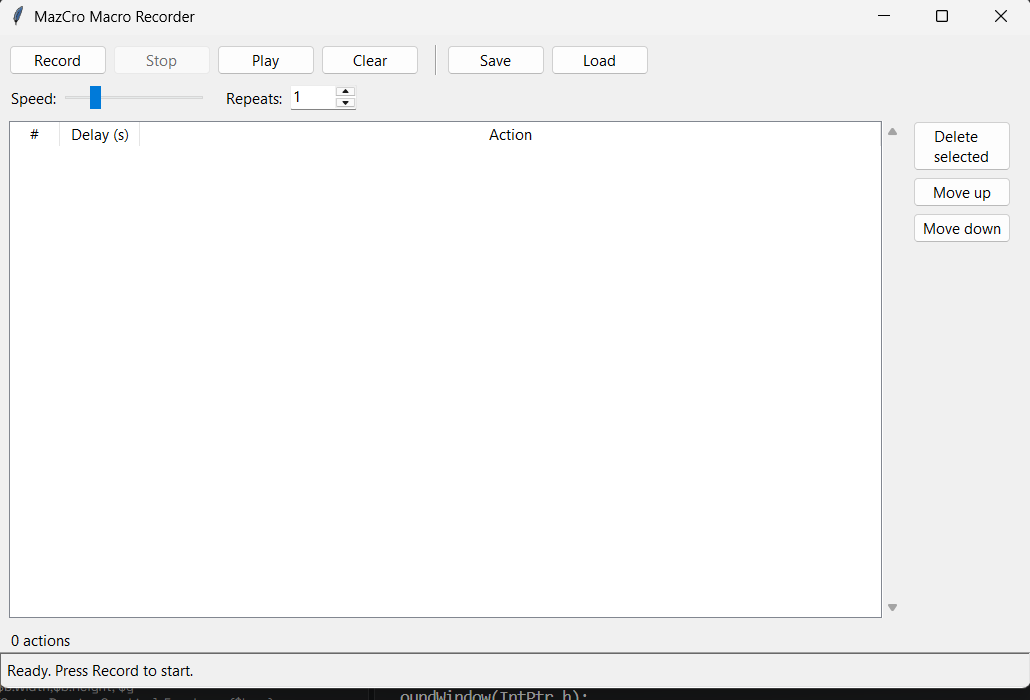
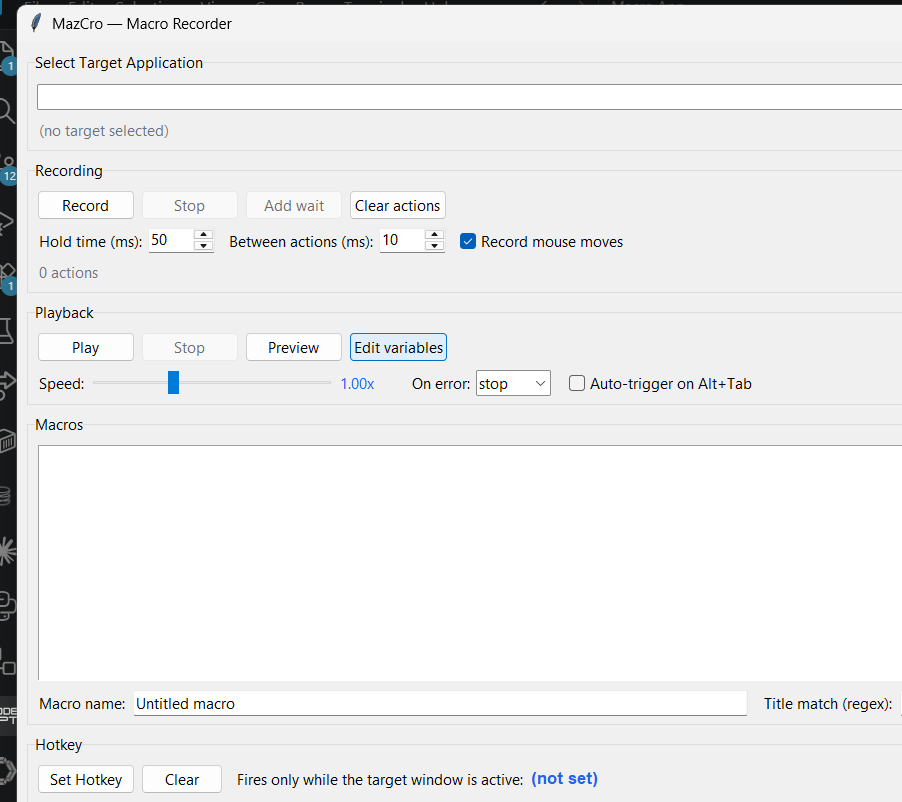
docs(readme): document target binding, variables, auto-trigger and troubleshooting
Rewrite the README for the new application.

- action reference table with the fields each action stores
- walkthroughs for recording, playback, Alt+Tab auto-trigger, hotkeys and
  variables
- annotated JSON macro example matching the documented schema
- architecture table and a troubleshooting matrix covering the failures
  users actually hit: capture permissions, closed targets, silent hotkeys
  and resolution changes

Add a screenshot of the running interface.

diff --git a/README.md b/README.md
@@ -2,72 +2,67 @@
 
 A Windows macro recorder and player with a graphical UI, written in Python.
 
-MazCro records your mouse and keyboard activity and replays it on demand —
-useful for repetitive form filling, game sequences, testing, or any task you
-would otherwise click through dozens of times.
+MazCro records your mouse and keyboard activity against a **specific target
+application**, then replays it — either on demand, via a hotkey, or automatically
+the moment you Alt+Tab back to that app.
 
-![screenshot](screenshot.png)
+![MazCro](screenshot.png)
 
 ## Features
 
-- **Record** mouse movement, clicks (left/right/middle), scrolling and keystrokes
-- **Playback** with an adjustable **speed multiplier** (0.25x – 4x) and **repeat count**
-- **Action list** with per-row delete, move up and move down reordering
-- **Save / Load** macros as portable JSON files
-- **Auto-filtering** — events happening over MazCro's own window are ignored, so the UI doesn't record itself
-- **Failsafe** — slam the mouse into any screen corner during playback to abort instantly
-- **Esc** stops a recording
-- Fully non-blocking: recording and playback run on background threads so the UI never freezes
+### Target application binding
 
-## Building a standalone EXE
+- Dropdown of every visible window, auto-refreshing every second
+- Macros remember their target's process name and window-title regex
+- Multiple windows of the same app are matched by title
+- Playback **refuses to start** if the target has closed, and aborts immediately
+  if it closes mid-run
+- Optional **auto-trigger**: Alt+Tab to the target and the macro fires by itself
 
-### Downloading a prebuilt EXE
+### Actions
 
-Go to the [Releases page](https://github.com/Mazt08/MazCro/releases) and download the
-latest `MazCro-*.zip`. Unzip it and double-click `MazCro.exe` — no Python installation
-required. A SHA256 checksum file is published alongside each release so you can verify
-the download.
+| Action | Fields | Notes |
+| --- | --- | --- |
+| `wait` | `duration` | explicit pause, in seconds |
+| `click` | `x`, `y`, `button`, `hold_time` | hold is in milliseconds |
+| `double_click` | `x`, `y`, `button` | |
+| `move` | `x`, `y`, `duration` | glides over `duration` seconds |
+| `type` | `text` | supports `${variable}` substitution |
+| `key` | `key`, `hold_time` | single press, e.g. `Return`, `tab` |
+| `hold_key` | `key`, `hold_time` | holds then always releases |
+| `scroll` | `x`, `y`, `amount` | positive scrolls up |
+| `screenshot` | `path` | optional, for verification |
 
-### Building it yourself
+### Timing
 
-MazCro ships two PyInstaller configurations:
+- **Speed slider, 0.5x – 2.0x**, applied to recorded gaps and explicit waits
+- Configurable **hold time** (default 50 ms) and **between-action wait** (default 10 ms)
+- Recorded timing gaps between actions are preserved and scaled
 
-| Spec                  | Result                                             | Best for                          |
-| --------------------- | -------------------------------------------------- | --------------------------------- |
-| `MazCro-onefile.spec` | one `MazCro.exe` (~13 MB)                          | distributing to other people      |
-| `MazCro.spec`         | `dist\MazCro\MazCro.exe` plus `_internal\` (~4 MB) | faster startup, smaller footprint |
+### Variables
 
-```powershell
-.\.venv\Scripts\python.exe -m pip install pyinstaller
+Define name/value pairs and reference them as `${name}` inside any `type` action.
+Values are stored in the macro, and can be overridden at playback time through a
+prompt dialog.
 
-# single file, easiest to share
-.\.venv\Scripts\python.exe -m PyInstaller --clean --noconfirm MazCro-onefile.spec
+### Reliability
 
-# or folder build, starts faster
-.\.venv\Scripts\python.exe -m PyInstaller --clean --noconfirm MazCro.spec
-```
+- **Bounds checking** — clicks outside the desktop are clamped to a safe inset
+  position, so a macro recorded on one monitor still works on another
+- **Key validation** against `pynput`'s key table before a run begins
+- **Watchdog** aborts playback if it overruns 5x its own estimate
+- **Multi-monitor aware** via `GetSystemMetrics` virtual-screen metrics
+- **Fail-safe** — move the mouse into a screen corner to abort instantly
 
-Both spec files explicitly list `pynput`'s and `pyautogui`'s win32 backends as hidden
-imports, because both libraries choose their platform backend at runtime and would
-otherwise be stripped out of the build — producing an app that opens and then crashes
-the moment you press **Record**.
+### Interface
 
-### Releasing a new version
-
-Tag and push, and GitHub Actions builds and publishes the EXE for you:
-
-```powershell
-git tag v1.0.0
-git push origin v1.0.0
-```
-
-You can also trigger the build manually from the repo's **Actions** tab via
-_Build Windows EXE → Run workflow_, which leaves the EXE available under the run's
-artifacts.
+Target picker, recording controls, playback controls with speed slider, saved
+macro list, variables editor, hotkey assignment, and a read-only log showing the
+last 20 events.
 
 ## Requirements
 
-- Windows (uses `pyautogui` and global input listeners)
+- Windows (primary target). macOS and Linux run, but without window awareness.
 - Python 3.10+
 
 ## Installation
@@ -85,30 +80,138 @@ python -m venv .venv
 .\.venv\Scripts\python.exe main.py
 ```
 
-1. Click **Record**, then perform the actions you want to capture
-2. Press **Esc** (or click **Stop**) to finish
-3. Adjust **Speed** and **Repeats** if needed
-4. Click **Play** — the macro replays after a short 300 ms delay so you can switch windows
+### Recording a macro
 
-Use **Save** to store a macro as JSON and **Load** to play it back later.
+1. Pick your target application from the **Select Target Application** dropdown
+2. Click **Record**
+3. Perform your actions — every click, keystroke, scroll and mouse move is captured
+4. Press **Esc** or click **Stop**
 
-## How it works
+Modifiers are not recorded separately; they are carried by the key they modify.
+Mouse movement is captured but you can turn it off with the **Record mouse moves**
+checkbox if you only want clicks.
 
-| Class      | Responsibility                                                              |
-| ---------- | --------------------------------------------------------------------------- |
-| `Action`   | Dataclass describing one recorded event plus its relative delay             |
-| `Recorder` | `pynput` listener thread that converts raw input into `Action` objects      |
-| `Player`   | Worker thread that feeds actions to `pyautogui`, scaled by the speed factor |
-| `MacroApp` | Tkinter UI: buttons, action table, save/load, playback control              |
+### Playing it back
 
-Delays are stored **relative to the previous event**, so playback timing scales
-cleanly with the speed multiplier and macros stay portable across machines.
+1. Set the **Speed** slider
+2. Choose an error policy: **stop** on the first failure, or **skip** and continue
+3. Click **Play**
+
+There is a short 800 ms delay before playback begins so you can switch to the
+target window. Use **Preview** first to see the action list without moving the mouse.
+
+### Alt+Tab auto-trigger
+
+Tick **Auto-trigger on Alt+Tab**. A background thread watches the foreground
+window and starts the macro the moment your target app gains focus. It fires once
+per activation, not continuously, and does nothing while you are working in
+another window.
+
+### Hotkey
+
+Click **Set Hotkey**, then press the key you want (5 second timeout). The hotkey
+only fires while the target window is active — so you cannot trigger a macro by
+accidentally pressing the key while typing elsewhere. **Esc** cancels instead of
+assigning.
+
+### Variables
+
+Click **Edit variables**, add name/value rows, then use `${name}` in a type action.
+On playback you are prompted to confirm or change each value first.
+
+### Macro files
+
+Macros are saved as JSON in `~/macros/`. You can also **Import** and **Export**
+them to share or back up.
+
+```json
+{
+  "name": "Login Automation",
+  "target_app": "chrome.exe",
+  "target_window_title": "Gmail",
+  "created": "2025-01-01T10:00:00",
+  "last_modified": "2025-01-01T10:00:00",
+  "playback_speed": 1.0,
+  "variables": { "username": "user@example.com", "password": "secret" },
+  "actions": [
+    { "type": "wait", "delay": 0, "duration": 0.5 },
+    { "type": "click", "delay": 0.2, "x": 250, "y": 150, "button": "left", "hold_time": 50 },
+    { "type": "type", "delay": 0.1, "text": "${username}" },
+    { "type": "key", "delay": 0.1, "key": "Return", "hold_time": 50 }
+  ]
+}
+```
+
+`delay` is the recorded gap **before** that action, in seconds. Dividing it by the
+speed factor is what makes 2x playback twice as fast.
+
+### Logging
+
+Everything is written to `~/macro_errors.log`, rotated at 2 MB with the 5 most
+recent files kept. The in-app log panel mirrors the last 20 lines.
+
+## Architecture
+
+| Module | Responsibility |
+| --- | --- |
+| `main.py` | Tkinter GUI, hotkey manager, thread lifecycle |
+| `macro_model.py` | `Macro`, `Action`, `Variable`, `WindowTarget` dataclasses |
+| `macro_store.py` | JSON persistence and the rotating log |
+| `recorder.py` | pynput listeners producing `Action` objects |
+| `player.py` | playback thread, timing, validation, watchdog |
+| `window_manager.py` | window enumeration, foreground monitor, screen metrics |
+
+Recording, playback, window monitoring and hotkey capture each run on their own
+daemon thread. The UI thread only receives results through Tkinter's `after`
+queue, so the window never freezes.
+
+## Building a standalone EXE
+
+### Downloading a prebuilt EXE
+
+Go to the [Releases page](https://github.com/Mazt08/MazCro/releases) and download the
+latest `MazCro-*.zip`. Unzip it and double-click `MazCro.exe` — no Python needed. A
+SHA256 checksum file is published with each release.
+
+### Building it yourself
+
+| Spec | Result | Best for |
+| --- | --- | --- |
+| `MazCro-onefile.spec` | one `MazCro.exe` (~13 MB) | distributing to other people |
+| `MazCro.spec` | `dist\MazCro\MazCro.exe` plus `_internal\` (~4 MB) | faster startup |
+
+```powershell
+.\.venv\Scripts\python.exe -m pip install pyinstaller
+
+# single file, easiest to share
+.\.venv\Scripts\python.exe -m PyInstaller --clean --noconfirm MazCro-onefile.spec
+
+# or folder build, starts faster
+.\.venv\Scripts\python.exe -m PyInstaller --clean --noconfirm MazCro.spec
+```
+
+Both specs list `pynput`'s and `pyautogui`'s win32 backends as hidden imports,
+because both libraries choose their platform backend at runtime and would
+otherwise be stripped out — producing an app that opens and then crashes the
+moment you press Record.
+
+## Troubleshooting
+
+| Problem | Cause and fix |
+| --- | --- |
+| Record button reports it cannot start | Global input capture needs matching privileges. Run MazCro as administrator. |
+| Playback says the target is not running | The target window is closed. Reopen it, or clear the target to play anywhere. |
+| Nothing happens on Alt+Tab | Auto-trigger is off, the macro has no actions, or focus never left the target. |
+| Hotkey does nothing | The hotkey only fires while the target window is active. |
+| Playback stops unexpectedly | Check `~/macro_errors.log`; a failing action is logged with a full traceback. |
+| Clicks land in the wrong place | Resolution or window layout changed. Re-record, or loosen the title regex. |
 
 ## Disclaimer
 
 Recording and replaying input can violate the terms of service of online games
-and applications, and may be detected by anti-cheat systems. Use MazCro only
-for automation you are permitted to automate.
+and applications, and may be detected by anti-cheat systems. Some antivirus tools
+flag applications that inject input as suspicious. Use MazCro only for automation
+you are permitted to automate.
 
 ## License
 
